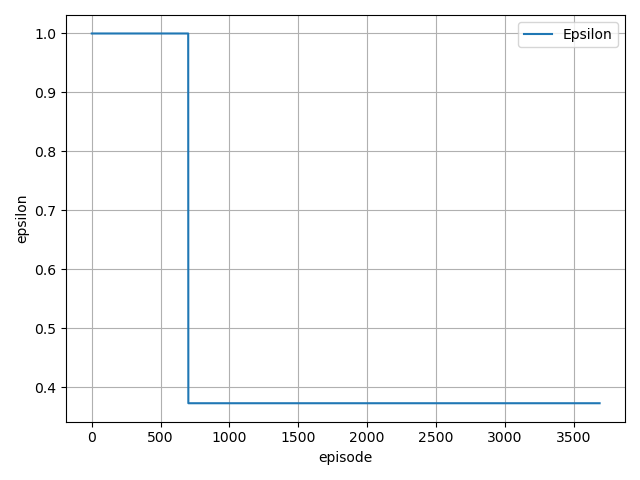
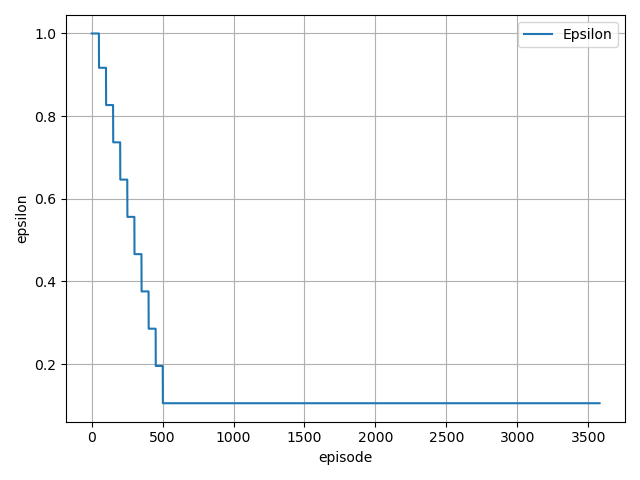
update

diff --git a/DQN_agent.py b/DQN_agent.py
@@ -55,15 +55,15 @@ class DQN:
         self.epsilon = 1
         self.epsilon_min=.1
         self.gamma = .999
-        self.batch_size = 128
+        self.batch_size = 256
         #self.epsilon_decay = 0.999# 0.999998  (98 *4)
-        self.epsilon_decay_episodes = 1000 
+        self.epsilon_decay_episodes = 500 
         self.epsilon_log = []
         # self.burn_limit = .001
-        self.learning_rate = 0.00025
+        self.learning_rate = 0.0025
         self.replay_freq = 1
         self.startEpisode =4
-        self.update_ep =700
+        self.update_ep =3
         self.memory = Memory(500000)
         self.optimizer_model = 'RMSProp'
         self.log_data=[]
@@ -81,7 +81,7 @@ class DQN:
         self.savedir = "savedModels/"+self.model.name+"/"+time_().strftime("%m%d%h")+"/"
     
     def build_model(self):
-              return build_Base(self)
+              return FCTime_distributed_model(self)
 
     def memorize(self, state, action, reward, next_state, done):
         # Calculate TD-Error for Prioritized Experience Replay
@@ -95,8 +95,7 @@ class DQN:
             #    if DQN.currEpisode <=  self.startEpisode:
                 #     return (random.choices(population=range(6),weights=(0.32,0.32,0.05,0.15,0.1,0.05),
                 # k=1)).pop()   # weighted exploration 
-                return random.randrange(self.action_space)
-            
+                return random.randrange(self.action_space)            
             act_values = self.model.predict(state)
             return np.argmax(act_values[0])  # returns action (Exploitation)
 
@@ -113,18 +112,34 @@ class DQN:
     def replay(self):
             if self.memory.tree.n_entries < self.batch_size:
                 return
-            batch, idxs, is_weight = (self.memory.sample(self.batch_size))
-            for i in range(self.batch_size):
-                state, action, reward, next_state, done = batch[i]
-                if not done:
-                    target = (reward + self.gamma * np.amax(self.model.predict(next_state)[0]))
-                else:
-                    target = reward
-                target_f = self.model.predict(state)
-                target_f[0][action] = target
-                # Gradient Update. Pay attention at the sample weight as proposed by the PER Paper               
-                history = self.model.fit(state, target_f, epochs=1, verbose=0, sample_weight=np.array([is_weight[i]]))
-            self.log_history.append(history.history["loss"])
+            # batch, idxs, is_weight = (self.memory.sample(self.batch_size))
+            # for i in range(self.batch_size):
+            #     state, action, reward, next_state, done = batch[i]
+            #     if not done:
+            #         target = (reward + self.gamma * np.amax(self.model.predict_on_batch(next_state)[0]))
+            #     else:
+            #         target = reward
+            #     target_f = self.model.predict_on_batch(state)
+            #     target_f[0][action] = target
+            #     # Gradient Update. Pay attention at the sample weight as proposed by the PER Paper               
+            #     history = self.model.fit(state, target_f, epochs=1, verbose=0, sample_weight=np.array([is_weight[i]]))
+            # self.log_history.append(history.history["loss"])
+
+            minibatch, idxs, is_weight =self.memory.sample(self.batch_size)
+            states = np.array([i[0] for i in minibatch], dtype=float)
+            actions = np.array([i[1] for i in minibatch])
+            rewards = np.array([i[2] for i in minibatch])
+            next_states = np.array([i[3] for i in minibatch], dtype=float)
+            dones = np.array([i[4] for i in minibatch])
+            states = np.squeeze(states)
+            next_states = np.squeeze(next_states)
+            targets = (rewards*1) + self.gamma * \
+                (np.amax(self.model.predict_on_batch(next_states), axis=1))*(1-dones)
+            targets_full = self.model.predict_on_batch(states)
+            ind = np.array([i for i in range(self.batch_size)])
+            targets_full[[ind], [actions]] = targets
+            history = self.model.fit(states, targets_full, verbose=0, sample_weight = is_weight)
+            self.log_history.append(history.history['loss'])
             self.decrement_epsilon()
                 
     
@@ -202,11 +217,11 @@ def train_dqn(episode,  graphics=True, ch=300,  lchk=0, model=None, ):
                 break
             total_t+=1
 
-        if e == 4:             
+        # if e == 0:           
+        if e == agent.startEpisode:          
              print("first target update.")
-             agent.replay() 
-        elif e >= agent.startEpisode:
-            if e % agent.update_ep==0 :
+             agent.replay()  
+        if e % agent.update_ep==0 and e>0 :
               print("target updated.")
               agent.replay()  
                    

diff --git a/Models.py b/Models.py
@@ -67,13 +67,12 @@ def build_1CNNBase(self, action_space=6, dueling=True):
         X = X_input 
         X = Reshape(input_reshape)(X)    
 
-        cnn1 = TimeDistributed(Dense(32, kernel_initializer='he_uniform',))(X)
-        cnn1 = LeakyReLU(0.65)(cnn1)
-        cnn1 = TimeDistributed(Dense(64, kernel_initializer='he_uniform',))(cnn1)
-        cnn1 = LeakyReLU(0.35)(cnn1)
-        cnn1  =MaxPooling1D(2)(cnn1) 
+        cnn1 = TimeDistributed(Dense(64, activation =PReLU(), kernel_initializer='he_uniform',))(X) 
+        cnn1 = TimeDistributed(Dense(64, activation =PReLU(),kernel_initializer='he_uniform',))(cnn1) 
+        cnn1 = LocallyConnected1D(filters=64,  kernel_size=4, activation =PReLU(),kernel_initializer='he_uniform')(X)
         cnn1 = Flatten()(cnn1)
-        cnn1 = Dense(128,activation="relu", kernel_initializer='he_uniform', )(cnn1)
+        cnn1 = Dense(512,activation="relu", kernel_initializer='he_uniform', )(cnn1)
+        cnn1 = Dense(256,activation="relu", kernel_initializer='he_uniform', )(cnn1) 
 
         # cnn2 = TimeDistributed(Dense(64, kernel_initializer='he_uniform',))(X) 
         # cnn2 = LeakyReLU(.4)(cnn2)
@@ -271,26 +270,19 @@ def sumofsquares(y_true, y_pred):  # critic loss
 def FCTime_distributed_model(self, action_space=6, dueling=True):
         self.network_size = 256
         X_input = Input(shape=(self.REM_STEP*54,))
-        input_reshape=(self.REM_STEP,54)
+        input_reshape=(self.REM_STEP,54,1)
         X = X_input
         truncatedn_init = initializers.TruncatedNormal(0, 1e-2)
         x_init = "he_uniform"
         y_init = initializers.glorot_uniform()
-
-        const_init = initializers.constant(1e-2)
-        X = Reshape(input_reshape)(X)
-        # X =Conv1D(4,(4),(4),activation="relu",) (X)
-        # X = Conv2D(1, (1,4), strides=(1,1),padding="same",activation="relu", kernel_initializer=x_init,   data_format="channels_first")(X)      
-        x = Dense(64,
-                  kernel_initializer=x_init)(X)     
-        x = gaussian(x)
-        x = Dense(128,
-                  kernel_initializer=x_init)(x)     
-        x = gaussian(x)
-        X = Flatten()(X)
-        X = Dense(512, kernel_initializer=y_init, activation="relu")(X) 
-        X = Dense(256, kernel_initializer=y_init, activation="relu")(X) 
- 
+        const_init = initializers.constant(1e-2)        
+        X_reshaped = Reshape(input_reshape)(X_input)
+        cnn1 =Conv1D(filters=16,  kernel_size=(1), padding= "same",activation =PReLU(),kernel_initializer='he_uniform' , use_bias=True)(X_reshaped)          
+        cnn1 =Conv2D(filters=32,  kernel_size=(2),  activation =LeakyReLU(.1), strides=2, kernel_initializer='he_uniform' , use_bias=True)(cnn1)   
+        cnn1 = Flatten()(cnn1)
+        cnn1 = Dense(512,activation="relu", kernel_initializer='he_uniform',)(cnn1)
+        cnn1 = Dense(256,activation="relu", kernel_initializer='he_uniform',)(cnn1) 
+        X= cnn1
  
                          
         # X = Conv2D(64, 4, strides=(2),padding="valid",activation="elu", kernel_initializer=x_init,   data_format="channels_first")(X)
@@ -306,12 +298,12 @@ def FCTime_distributed_model(self, action_space=6, dueling=True):
         # # Hidden layer with 64 nodes
         # X = Dense(64, activation="relu", kernel_initializer=truncatedn_init, bias_initializer=const_init)(X)
         if dueling:
-            state_value = Dense(1, kernel_initializer=y_init,activation="softmax" )(X)
+            state_value = Dense(1, kernel_initializer=truncatedn_init )(X)
             state_value = Lambda(lambda s: K.expand_dims(
                 s[:, 0], -1), output_shape=(action_space,))(state_value)
 
             action_advantage = Dense(
-                action_space, kernel_initializer=y_init ,activation="linear")(X)
+                action_space, kernel_initializer=y_init  )(X)
             action_advantage = Lambda(lambda a: a[:, :] - K.mean(
                 a[:, :], keepdims=True), output_shape=(action_space,))(action_advantage)
 

diff --git a/StarShip.py b/StarShip.py
@@ -34,13 +34,13 @@ class StarShipGame:
         self.spaceShipSprite = SpaceShipSprite(StarShipGame.screen,r'Assets\imgs\triangleShip.png',startPosition=((screen_size[0]/2)-60,screen_size[1]/2))   
         self.obstacleGenerator = ObstacleGenerator(StarShipGame.screen,r'Assets\imgs\brick.png')
         self.screen_size = screen_size
-        self.FPS = 32
+        self.FPS =100
         self.clock = pygame.time.Clock()
         pygame.display.set_caption("StarShip")
         self.obstacleGenerator.generate(0); 
         StarShipGame.liveObstacles = self.obstacleGenerator.liveObstacles
         self.save=False 
-        self.REM_STEP = 1
+        self.REM_STEP = 2
         self.ROWS =  1
         self.COLS = 54
         self.image_memory = np.zeros((self.REM_STEP, self.ROWS, self.COLS))
@@ -442,7 +442,7 @@ class StarShipGame:
             state = self.getEnvStateOnScreen()
         # for i in obs_collection:
         #     state.append(i)  
-        state=np.reshape(state,(1,54))
+        state=np.reshape(state,(2,54))
         return state
   
      
@@ -495,7 +495,7 @@ class StarShipGame:
         
         StarShipGame.liveObstacles =self.obstacleGenerator.liveObstacles     
         state = self.getEnvStateOnScreen()
-        state=np.reshape(state,(1,54))
+        state=np.reshape(state,(2,54))
         if self.done:        
            
             return self.reward, state ,self.done       

diff --git a/main.py b/main.py
@@ -9,7 +9,7 @@ from icecream import ic
 parser = argparse.ArgumentParser(
     description='Args for initialising training and testing of RL Agent')
 parser.add_argument('--mode', '-m', default='train')
-parser.add_argument('--model', '--mp', default=None)
+parser.add_argument('--model', '--mp', default="savedModels/FCTime_distributed_modelv2/0224Feb/FCTime_distributed_modelv2_epochs_1599_avg_-20.11_.h5")
 parser.add_argument('--epochs', '-e', type=int,default=10000)
 parser.add_argument('--learnrate', '-l', default=.001)
 parser.add_argument('--graphics', '-g', default=False)

diff --git a/PER.py b/PER.py
@@ -4,8 +4,8 @@ import numpy as np
 class Memory:  # stored as ( s, a, r, s_ ) in SumTree
     e = 0.01
     a = 0.8
-    beta = 0.3
-    beta_increment_per_sampling = 0.0005
+    beta = 0.1
+    beta_increment_per_sampling = 0.0001
 
     def __init__(self, capacity):
         self.tree = SumTree(capacity)

diff --git a/tempCodeRunnerFile.py b/tempCodeRunnerFile.py
@@ -1,1 +1,1 @@
-nt("\nbeginni
+batc
